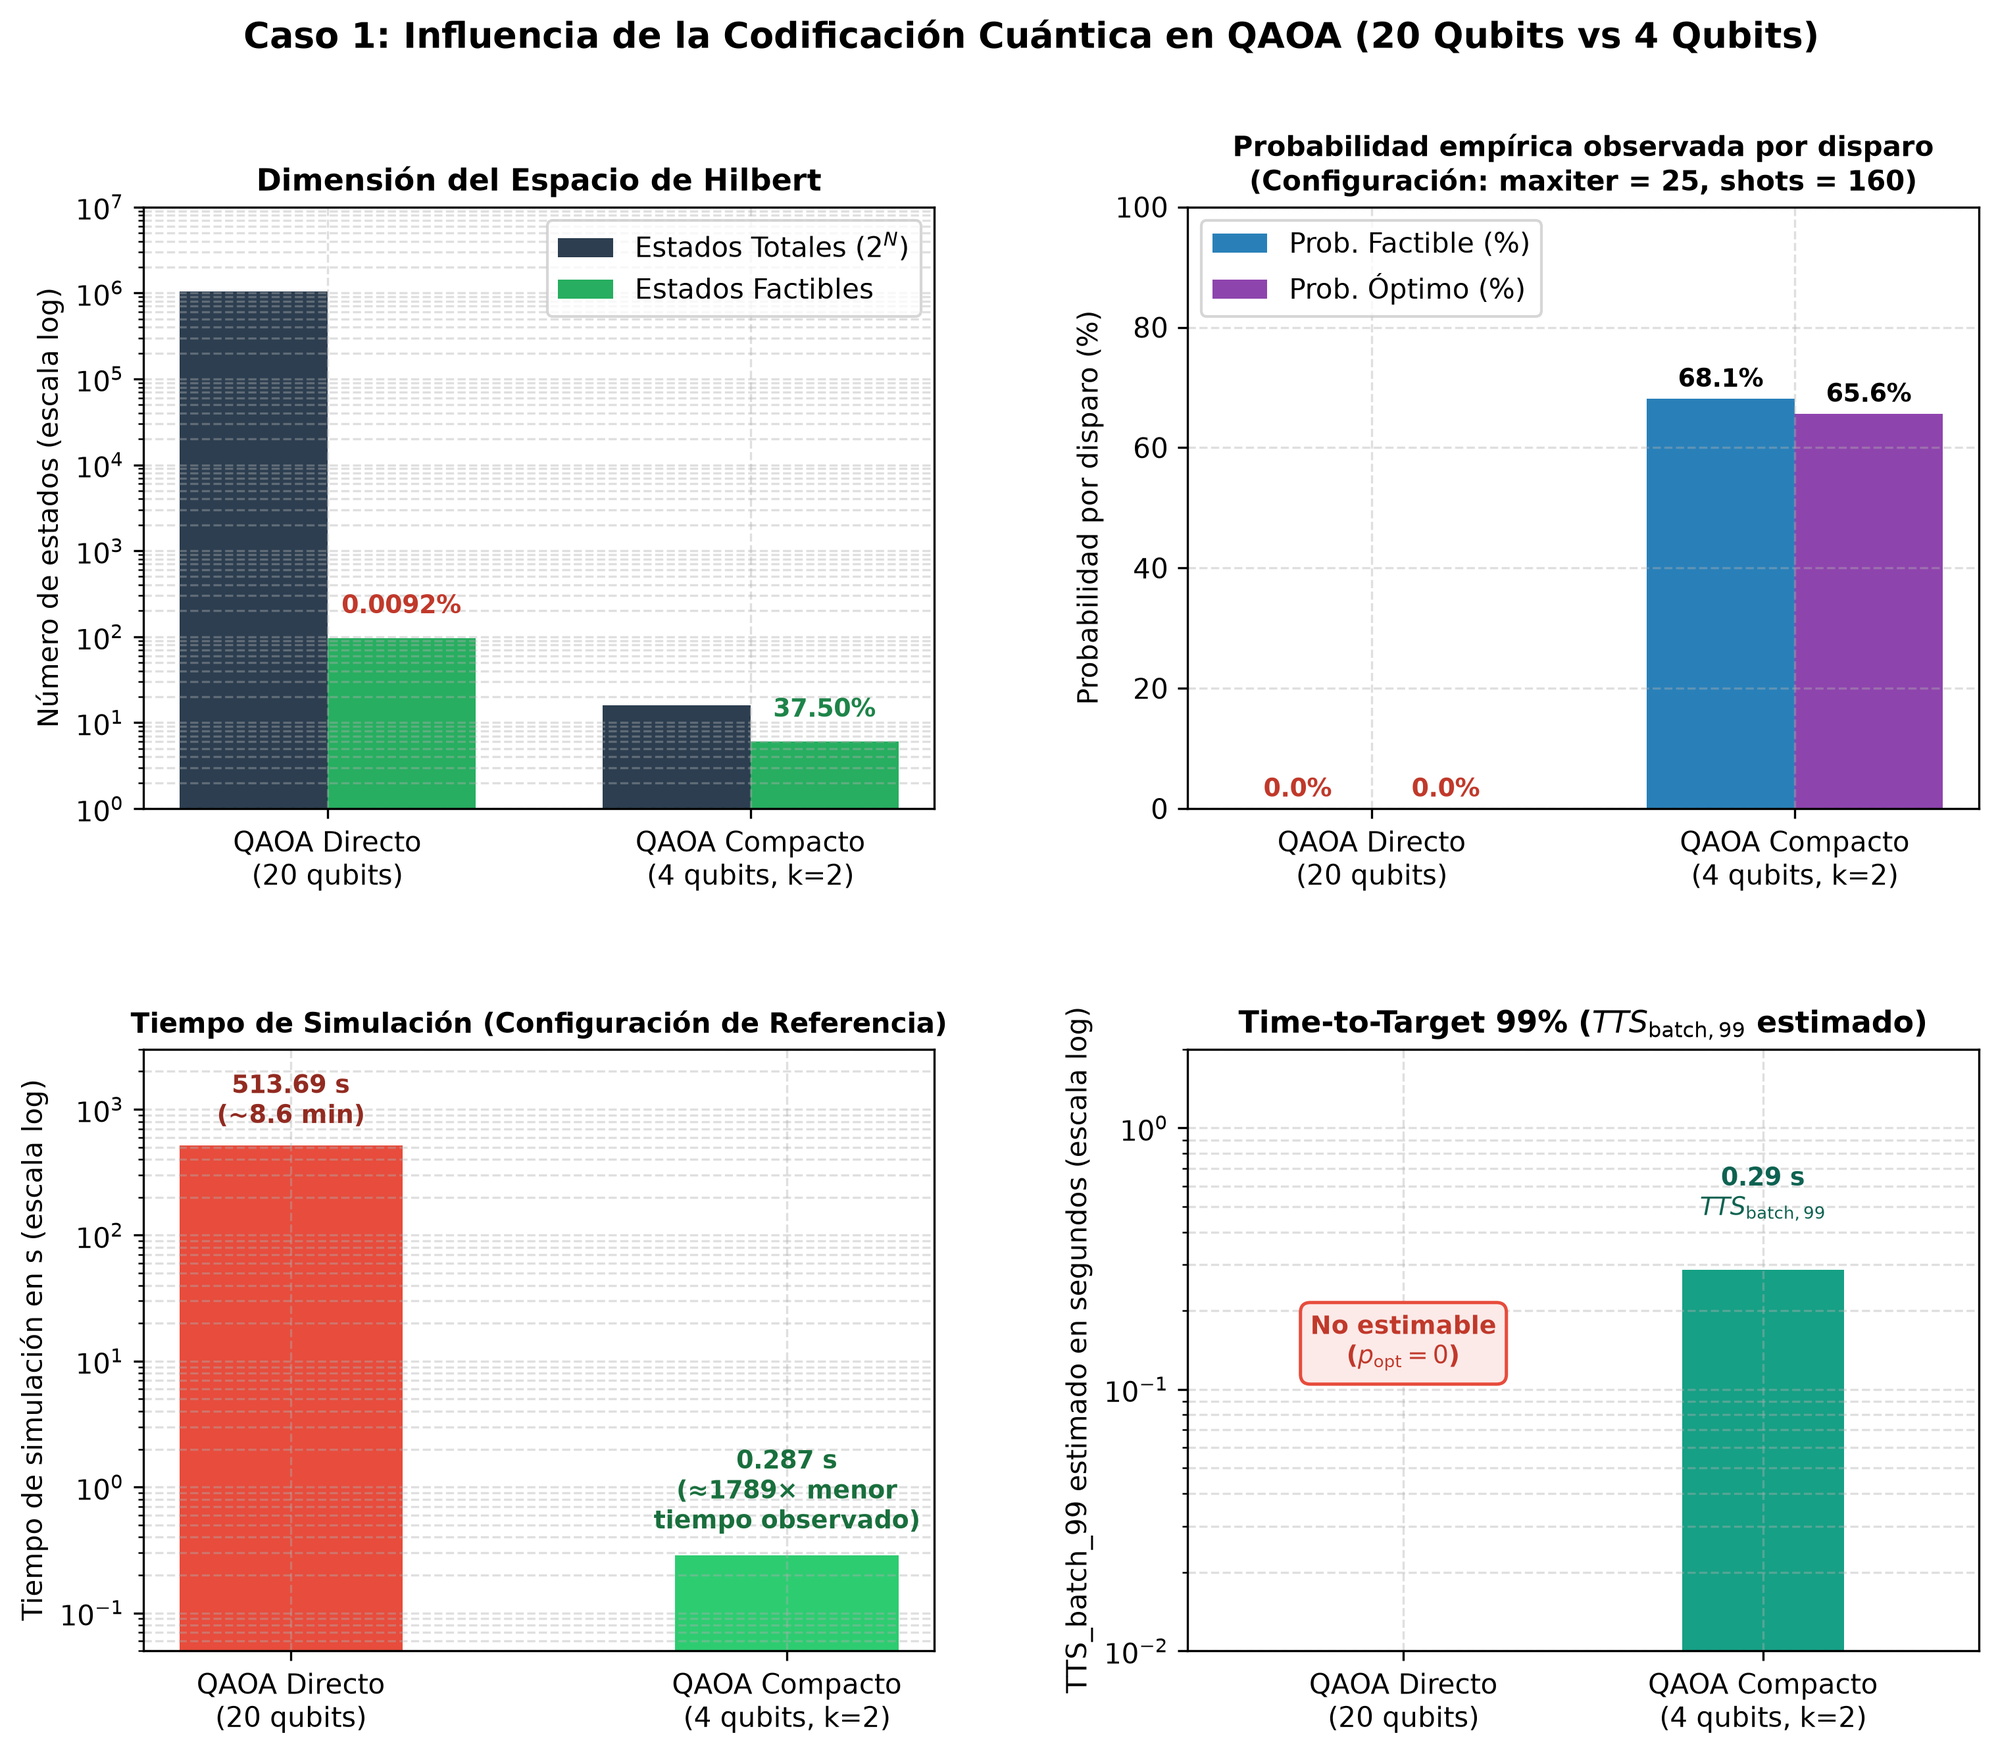
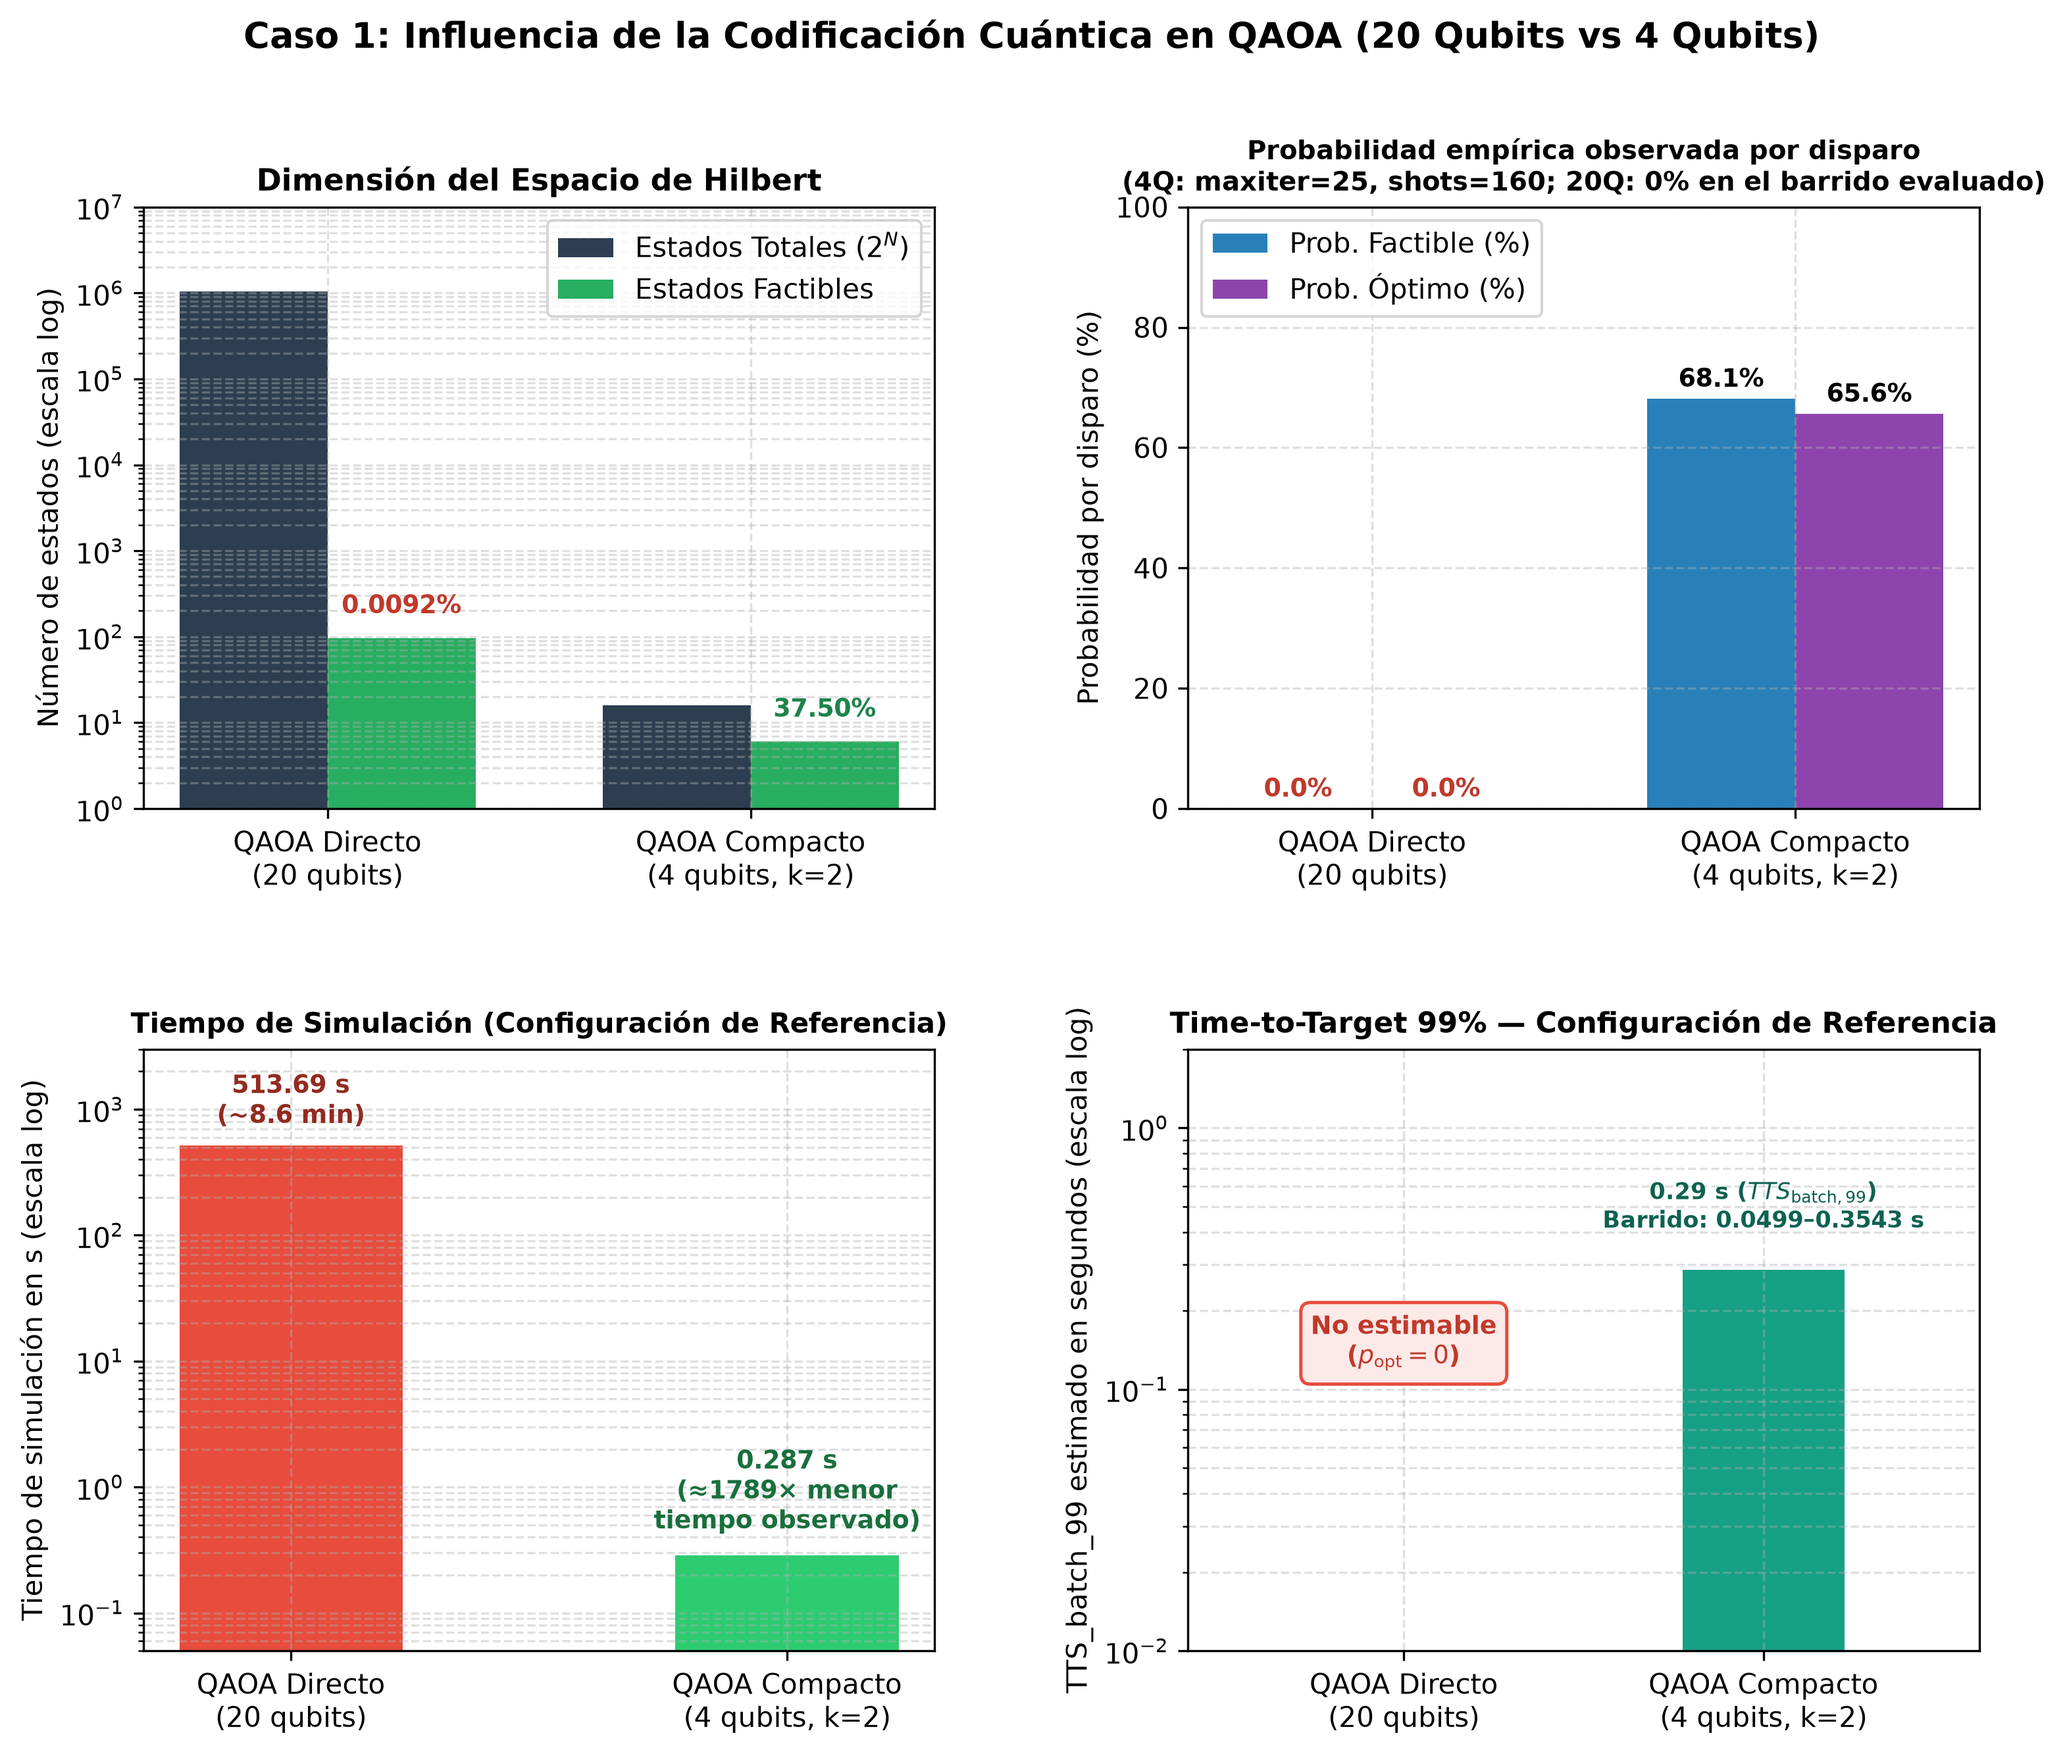
Mejorar figura QAOA

diff --git a/caso1_colocacion_monedas/experimentos/comparar_qaoa_20q_vs_4q.py b/caso1_colocacion_monedas/experimentos/comparar_qaoa_20q_vs_4q.py
@@ -6,7 +6,7 @@ Este script genera la evidencia comparativa definitiva para la memoria del TFM:
 3. Genera una figura gráfica académica pulida en figuras/ (comparativa_qaoa_20q_vs_4q.png) con:
    - Dimensión del espacio de Hilbert (escala log).
    - Probabilidad de muestreo por disparo para la configuración representativa (maxiter=25, shots=160).
-   - Tiempo de simulación con COBYLA (30 iter).
+   - Tiempo de simulación en las configuraciones de referencia registradas.
    - Time-to-Target 99% (TTS99 estimado sin barras ficticias para inf).
 4. Guarda un informe textual exhaustivo en resultados/.
 """
@@ -91,7 +91,7 @@ def generar_figura_comparativa(carpeta_figuras):
     ax2.bar(x - ancho/2, prob_factible, ancho, label="Prob. Factible (%)", color="#2980b9")
     ax2.bar(x + ancho/2, prob_optimo, ancho, label="Prob. Óptimo (%)", color="#8e44ad")
     ax2.set_ylabel("Probabilidad por disparo (%)")
-    ax2.set_title("Probabilidad empírica observada por disparo\n(Configuración: maxiter = 25, shots = 160)", fontsize=10, fontweight="bold")
+    ax2.set_title("Probabilidad empírica observada por disparo\n(4Q: maxiter=25, shots=160; 20Q: 0% en el barrido evaluado)", fontsize=9.5, fontweight="bold")
     ax2.set_xticks(x)
     ax2.set_xticklabels(metodos)
     ax2.set_ylim(0, 100)
@@ -136,7 +136,7 @@ def generar_figura_comparativa(carpeta_figuras):
     ax4.set_ylim(0.01, 2.0)
     ax4.set_yscale("log")
     ax4.set_ylabel("TTS_batch_99 estimado en segundos (escala log)")
-    ax4.set_title("Time-to-Target 99% ($TTS_{\\mathrm{batch},99}$ estimado)", fontsize=11, fontweight="bold")
+    ax4.set_title("Time-to-Target 99% — Configuración de Referencia", fontsize=10.5, fontweight="bold")
     ax4.set_xticks([0, 1])
     ax4.set_xticklabels(metodos)
     ax4.grid(True, linestyle="--", alpha=0.4, which="both")
@@ -148,11 +148,13 @@ def generar_figura_comparativa(carpeta_figuras):
         color="#c0392b", fontweight="bold", fontsize=9,
         bbox=dict(boxstyle="round,pad=0.4", fc="#fceae8", ec="#e74c3c", lw=1.2)
     )
+    tts_min_barrido = data_4q["barrido"]["tts_batch_99_min_segundos"]
+    tts_max_barrido = data_4q["barrido"]["tts_batch_99_max_segundos"]
     ax4.text(
-        1, tts_compacto * 1.5,
-        f"{tts_compacto:.2f} s\n$TTS_{{\\mathrm{{batch}},99}}$",
+        1, tts_compacto * 1.35,
+        f"{tts_compacto:.2f} s ($TTS_{{\\mathrm{{batch}},99}}$)\nBarrido: {tts_min_barrido:.4f}–{tts_max_barrido:.4f} s",
         ha="center", va="bottom",
-        color="#0e6251", fontweight="bold", fontsize=9
+        color="#0e6251", fontweight="bold", fontsize=8.5
     )
 
     plt.suptitle("Caso 1: Influencia de la Codificación Cuántica en QAOA (20 Qubits vs 4 Qubits)", fontsize=13, fontweight="bold")
@@ -240,8 +242,8 @@ def main():
 
     factor_qubits = f"-{(1.0 - qubits_4 / qubits_20) * 100:.1f}%"
     factor_dim = f"{dim_20 // dim_4:,}x menor"
-    factor_fact = f">{pct_fact_4 / pct_fact_20:.0f}x mayor"
-    factor_opt = f">{pct_opt_4 / pct_opt_20:.0f}x mayor"
+    factor_fact = f"≈{pct_fact_4 / pct_fact_20:.0f}× mayor"
+    factor_opt = f"≈{pct_opt_4 / pct_opt_20:.0f}× mayor"
     factor_tiempo = f"≈{t_sim_20 / t_sim_4:.0f}× menor tiempo"
 
     informe = f"""========================================================================================
@@ -318,8 +320,8 @@ Dimensión espacio Hilbert      | {dim_20:,} estados        | {dim_4} estados   
 Fracción de estados factibles  | {pct_fact_20:.4f}% ({fact_20} estados)     | {pct_fact_4:.2f}% ({fact_4} estados)            | {factor_fact}
 Fracción de estados óptimos    | {pct_opt_20:.5f}% ({opt_20} estados)     | {pct_opt_4:.2f}% ({opt_4} estados)            | {factor_opt}
 Tiempo simulación (config. ref.) | {t_sim_20:.2f} s (iter={cfg_20['cobyla_maxiter']:<2})       | {t_sim_4:.4f} s (iter={cfg_4['cobyla_maxiter']:<2})         | {factor_tiempo}
-Prob. factible (maxiter={cfg_4['cobyla_maxiter']})    | {p_fact_20:.2f}%                    | {p_fact_4:.2f}%                       | Muestras factibles
-Prob. óptima (maxiter={cfg_4['cobyla_maxiter']})      | {p_opt_20:.2f}%                    | {p_opt_4:.2f}%                       | Muestras óptimas
+Prob. factible observada       | {p_fact_20:.2f}%                    | {p_fact_4:.2f}%                       | Muestras factibles
+Prob. óptima observada         | {p_opt_20:.2f}%                    | {p_opt_4:.2f}%                       | Muestras óptimas
 TTS99 estimado (simulación)    | {tts_str_20:<24} | {tts_str_4:<29} | Estimación finita
 Solución devuelta              | Inviable (0% factible)   | {sol_bits_4} (Coste = {coste_4})      | Óptimo exacto
 Escalabilidad analítica (k=2)  | n + n^2 variables binarias | n variables binarias          | Formulación compacta
